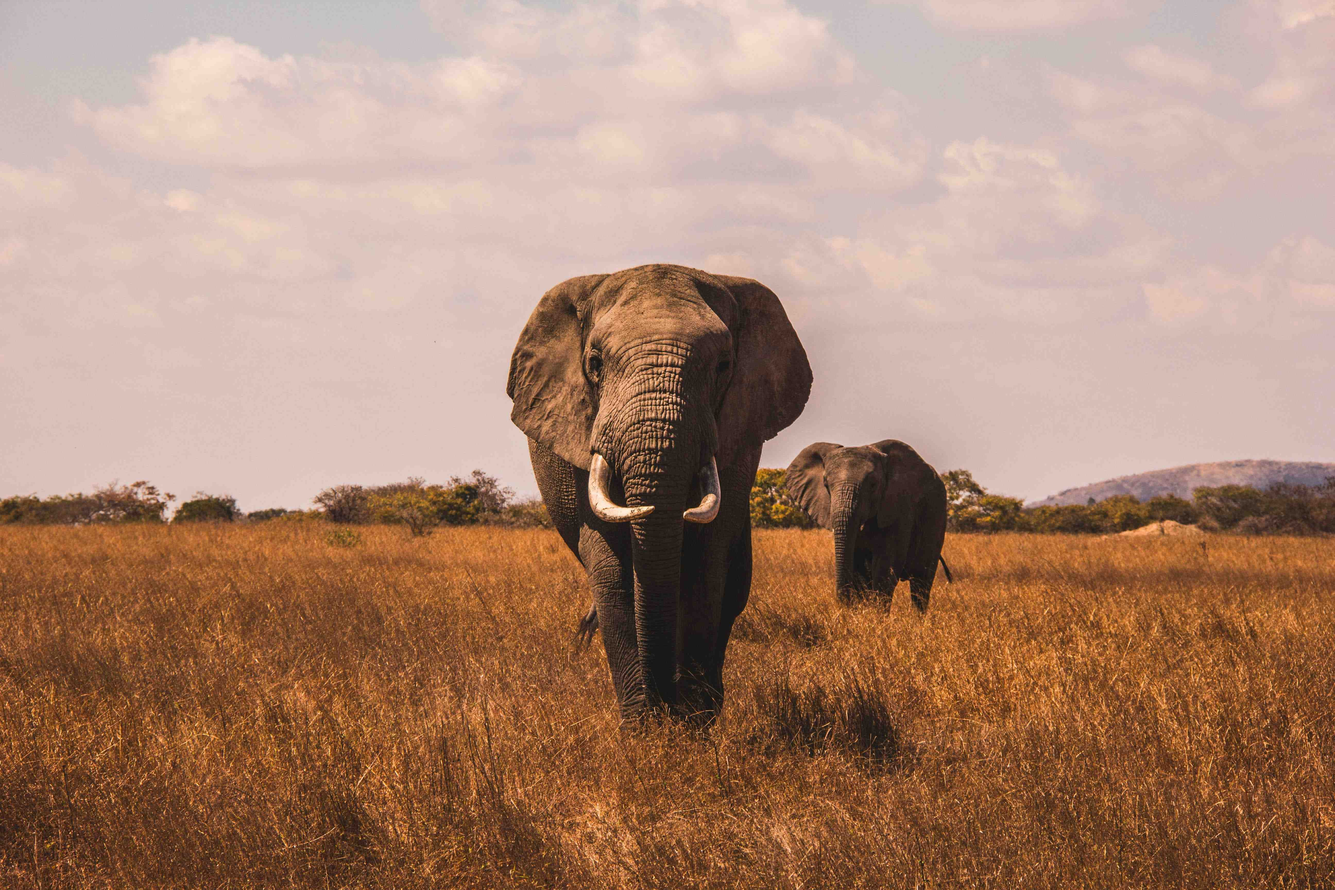
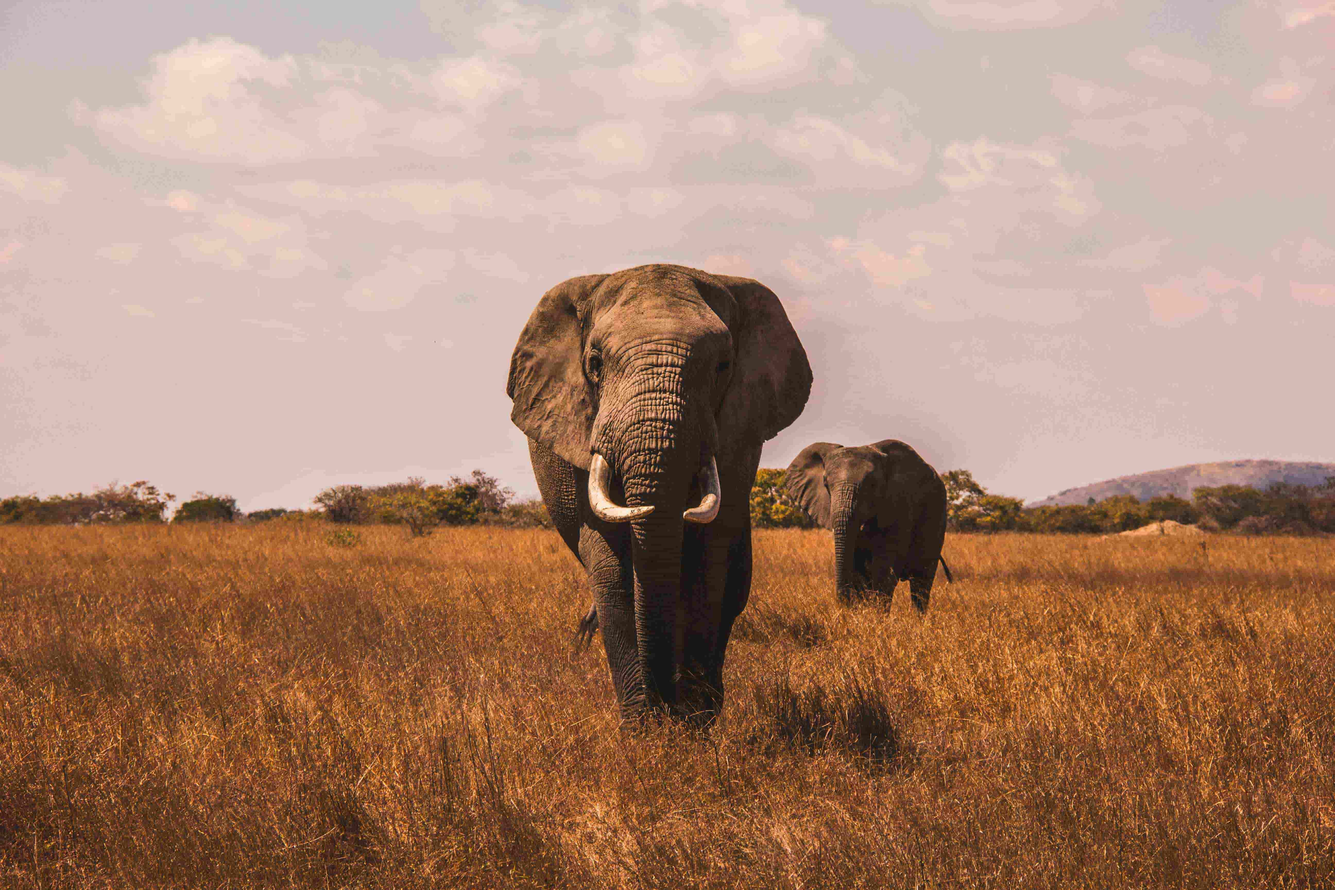
Little fix + lower image quality

diff --git a/src/pages/projects/iniva/index.tsx b/src/pages/projects/iniva/index.tsx
@@ -19,9 +19,9 @@ export default function Project() {
                     <Heading project={project}/>
 
                     <Link href="https://inivatourism.com/" target="_blank"
-                          className="group size-fit flex items-center gap-2 font-primary uppercase text-xl md:text-2xl xl:text-3xl text-primary font-semibold">
+                          className="group size-fit flex items-center gap-2 font-primary uppercase text-lg md:text-xl xl:text-2xl text-primary font-semibold">
                         Visiter le site
-                        <svg className="shrink-0 rotate-45 size-7 md:size-8 xl:size-10 md:group-hover:-translate-y-0.5 md:group-hover:translate-x-0.5 duration-500"
+                        <svg className="shrink-0 rotate-45 size-6 md:size-7 xl:size-8 md:group-hover:-translate-y-0.5 md:group-hover:translate-x-0.5 duration-500"
                             xmlns="http://www.w3.org/2000/svg" viewBox="0 0 82 82">
                             <path fillRule="evenodd" clipRule="evenodd"
                                   d="M12.252 41L41 12.252 69.749 41l-4.832 4.832-20.5-20.5v43.002h-6.834V25.331l-20.5 20.5L12.252 41z"

diff --git a/src/components/global/Footer.tsx b/src/components/global/Footer.tsx
@@ -23,7 +23,7 @@ export default function Footer() {
                     </div>
 
                     <button onClick={() => lenis.scrollTo('#top', {lerp: 0.01})}>
-                        <svg className="shrink-0 size-16 md:size-20 xl:size-24 text-primary"
+                        <svg className="shrink-0 size-12 md:size-16 xl:size-20 text-primary"
                             xmlns="http://www.w3.org/2000/svg" viewBox="0 0 82 82">
                             <path fillRule="evenodd" clipRule="evenodd"
                                   d="M12.252 41L41 12.252 69.749 41l-4.832 4.832-20.5-20.5v43.002h-6.834V25.331l-20.5 20.5L12.252 41z"
@@ -35,7 +35,7 @@ export default function Footer() {
 
             </div>
 
-            <div className="flex max-md:justify-center gap-6 text-primary font-medium uppercase w-full">
+            <div className="flex max-md:justify-center gap-6 font-primary text-primary uppercase w-full">
                 <a href="https://www.linkedin.com/in/simon-tessard-138733198/" target="_blank">LinkedIn</a>
                 <a href="mailto:pro@simontessard.fr" target="_blank">Email</a>
             </div>

diff --git a/src/components/projects-slug/Heading.tsx b/src/components/projects-slug/Heading.tsx
@@ -1,13 +1,15 @@
 export default function Heading({project} : {project: any}) {
     return (
         <div className="mb-8 md:mb-12">
+
             {/* Title */}
             <div className="flex gap-2 font-primary items-start mb-8 md:mb-12">
-                <h1 id="pageTitle"
-                    className="text-4xl md:text-6xl xl:text-8xl uppercase text-primary font-semibold">
+                <h1 className="text-4xl md:text-6xl xl:text-8xl uppercase text-primary font-semibold">
                     {project.title}
                 </h1>
-                <p className="editorial italic text-primary mt-1 xl:mt-2.5">{project.date}</p>
+                <p className="editorial italic text-primary mt-1 xl:mt-2.5">
+                    {project.date}
+                </p>
             </div>
 
             {/* Desc */}

diff --git a/src/components/global/Header/MenuOpenButton.tsx b/src/components/global/Header/MenuOpenButton.tsx
@@ -6,7 +6,7 @@ export default function MenuOpenButton() {
         setMenuIsOpen(true);
     }
     return (
-        <button onClick={openMenu} className="size-fit uppercase tracking-tight font-primary text-primary">
+        <button onClick={openMenu} className="size-fit uppercase md:text-lg tracking-tight font-primary text-primary">
             Menu
         </button>
     )
@@ -18,7 +18,7 @@ export function MenuCloseButton() {
         setMenuIsOpen(false);
     }
     return (
-        <button onClick={closeMenu} className="size-fit uppercase tracking-tight font-primary text-white">
+        <button onClick={closeMenu} className="size-fit uppercase md:text-lg tracking-tight font-primary text-white">
             Fermer
         </button>
     )

diff --git a/src/components/global/Header/Menu.tsx b/src/components/global/Header/Menu.tsx
@@ -50,7 +50,7 @@ export default function Menu() {
                         <MenuLink href="/projects" text="projets" hideMenu={hideMenu}/>
                         <MenuLink href="/about" text="à propos" hideMenu={hideMenu}/>
                     </div>
-                    <div className="flex gap-6 md:gap-8 text-white font-medium uppercase w-full">
+                    <div className="flex gap-6 md:gap-8 text-white font-primary font-medium uppercase w-full">
                         <a href="https://www.linkedin.com/in/simon-tessard-138733198/" target="_blank">LinkedIn</a>
                         <a href="mailto:pro@simontessard.fr" target="_blank">Email</a>
                     </div>
